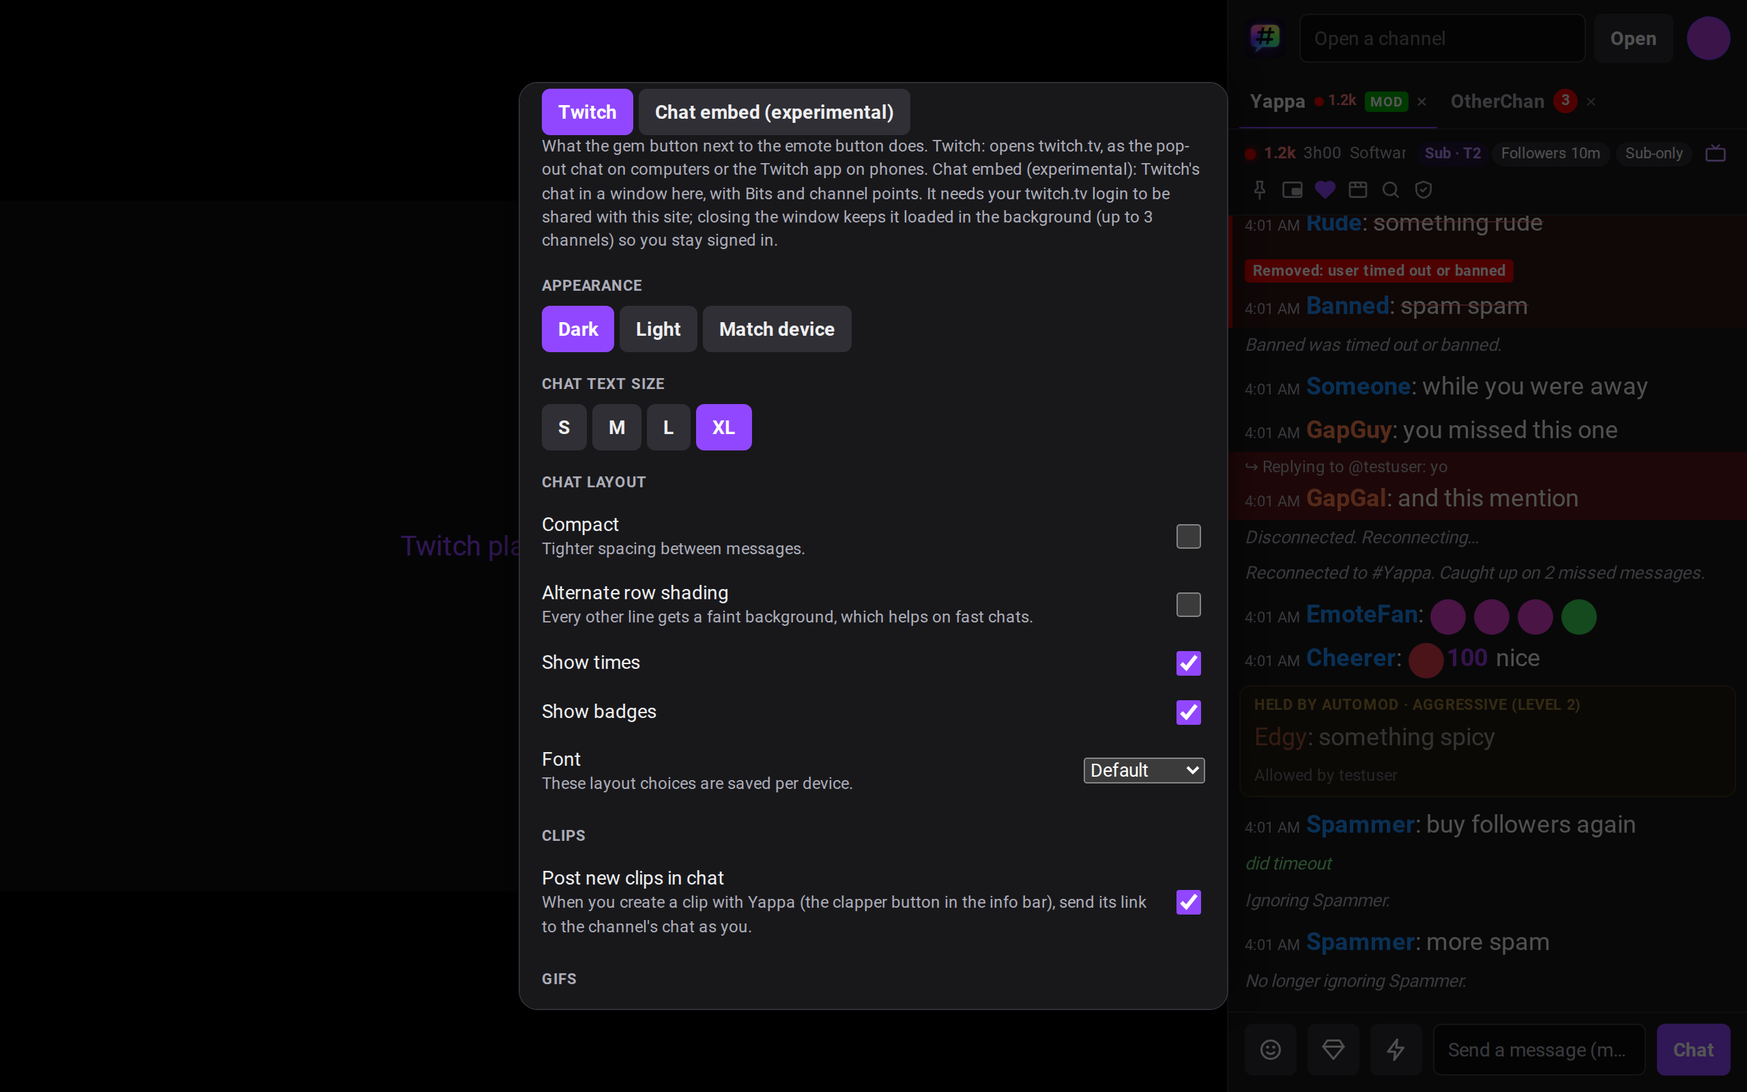
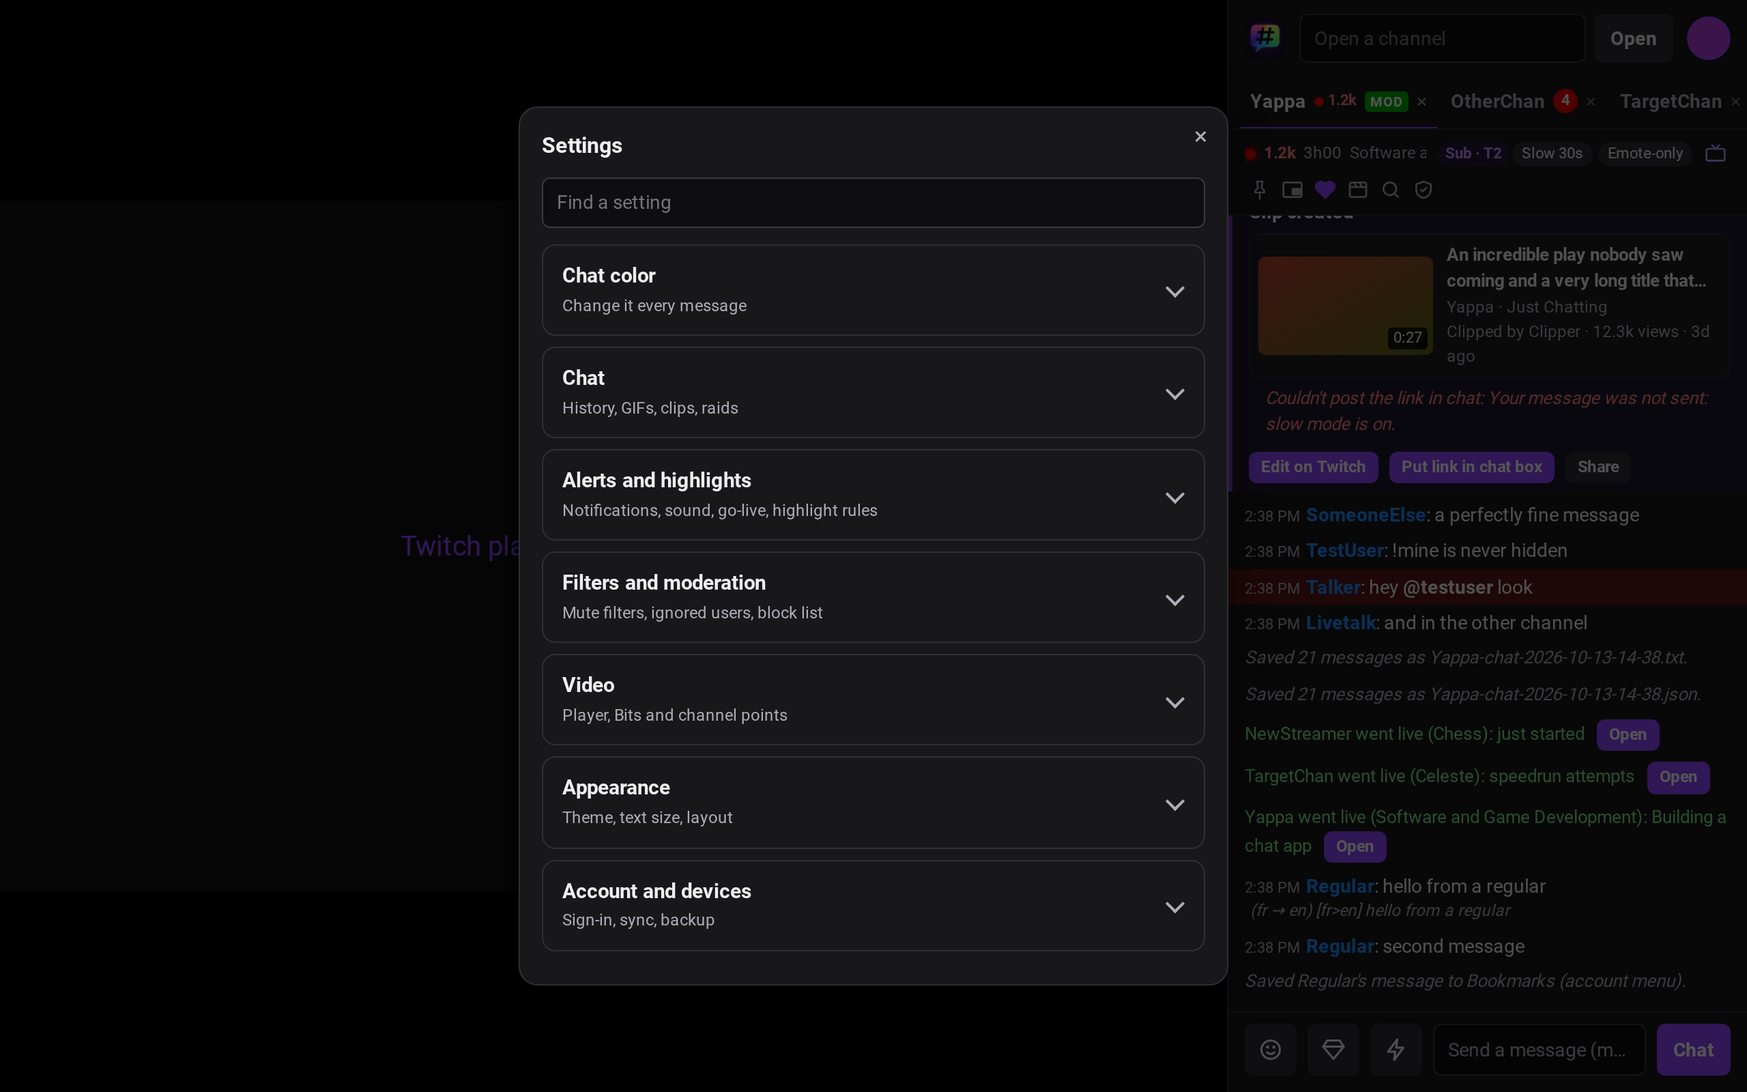
Settings: collapsible sections (one open at a time, remembered) with a search box

diff --git a/src/client/app.js b/src/client/app.js
@@ -4390,7 +4390,9 @@ function backupControls() {
   return box;
 }
 
-function openSettings() {
+let settingsGroup = null; // the section that was open last time, so Settings reopens where you were
+
+function openSettings(wantGroup) {
   const row = (labelText, control, hint) => {
     const r = el("div", "row");
     const l = el("label");
@@ -4550,82 +4552,131 @@ function openSettings() {
   colorLabel.append(el("div", null, "Change my color every message"), el("div", "hint", "A new random color for each message you send. Shows your current color and how many times it has changed."));
   color.append(colorLabel);
 
-  openSheet(
-    el("h2", null, "Settings"),
-    el("h3", null, "Chat color"),
-    color,
-    cyclerEl,
-    el("h3", null, "Account"),
-    account,
-    el("h3", null, "Chat history"),
-    historyRow,
-    el("h3", null, "Raids"),
-    row("Follow raids", checkbox(settings.followRaids, (c) => { settings.followRaids = c.checked; saveSettings(); }),
-      "When the channel you're watching raids, switch to the raided channel after " + RAID_FOLLOW_SECONDS + " seconds (you can stay)."),
-    el("h3", null, "Alerts"),
-    row("Notifications", notify, notifyHint),
-    row("Sound", sound, "A short chime for mentions and highlights when you're looking elsewhere."),
-    el("h3", null, "Highlight rules"),
-    el("div", "hint", "Matching messages are highlighted in orange (and alert you, if on). Phrases match whole words, ignoring case."),
-    rulesList,
-    addRule,
-    el("h3", null, "Mute filters"),
-    el("div", "hint", "Hide messages instead of highlighting them. Your own are never hidden, and changes apply to new messages."),
-    row("Hide known bots", checkbox(!!settings.mute.bots, (c) => { settings.mute.bots = c.checked; saveSettings(); }),
-      "Nightbot, StreamElements, Streamlabs, Moobot, Fossabot, WizeBot, SoundAlerts, Sery_Bot and the Pokémon community game bot."),
-    row("Hide !commands", checkbox(!!settings.mute.commands, (c) => { settings.mute.commands = c.checked; saveSettings(); }),
-      "Messages that start with ! (people triggering bot commands)."),
-    el("div", "hint", "Muted words and phrases match whole words, ignoring case. Wrap a regular expression in slashes, like /^gg+$/, to match a pattern."),
-    muteList,
-    addMute,
-    muteErr,
-    el("h3", null, "Video player"),
-    playerSeg,
-    el("div", "hint", "Native plays the stream directly in a plain video player, which can autoplay (muted) on phones. " +
-      "Tested: Native works in Firefox for Android but not in Chrome (Twitch only lets its own site load its video in browsers that enforce cross-site rules), and Twitch's player is the other way round. " +
-      "This choice is saved per browser. Native also relies on an unofficial Twitch API that can stop working at any time; if it fails, Yappa switches back to Twitch's player for that visit."),
-    el("h3", null, "Bits and channel points"),
-    bitsSeg,
-    el("div", "hint", "What the gem button next to the emote button does. Twitch: opens twitch.tv, as the pop-out chat on computers or the Twitch app on phones. " +
-      "Chat embed (experimental): Twitch's chat in a window here, with Bits and channel points. It needs your twitch.tv login to be shared with this site; closing the window keeps it loaded in the background (up to 3 channels) so you stay signed in." + chatEmbedTip(navigator.userAgent)),
-    el("h3", null, "Appearance"),
-    themeSeg,
-    el("h3", null, "Chat text size"),
-    seg,
-    el("h3", null, "Chat layout"),
-    row("Compact", checkbox(!!settings.compact, (c) => { settings.compact = c.checked; saveSettings(); }), "Tighter spacing between messages."),
-    row("Alternate row shading", checkbox(!!settings.zebra, (c) => { settings.zebra = c.checked; saveSettings(); }), "Every other line gets a faint background, which helps on fast chats."),
-    row("Show times", checkbox(settings.showTime !== false, (c) => { settings.showTime = c.checked; saveSettings(); })),
-    row("Show badges", checkbox(settings.showBadges !== false, (c) => { settings.showBadges = c.checked; saveSettings(); })),
-    row("Font", dropdown([["default", "Default"], ["mono", "Monospace"], ["serif", "Serif"]], settings.chatFont || "default", (v) => { settings.chatFont = v; saveSettings(); }), "These layout choices are saved per device."),
-    el("h3", null, "Clips"),
-    row("Post new clips in chat", checkbox(settings.postClips !== false, (c) => { settings.postClips = c.checked; saveSettings(); }),
-      "When you create a clip with Yappa (the clapper button in the info bar), send its link to the channel's chat as you."),
-    el("h3", null, "GIFs"),
-    row("Show GIFs", checkbox(settings.gifs !== false, (c) => { settings.gifs = c.checked; saveSettings(); }),
-      "Tier 2 and 3 subscribers can send GIFs. They're big and animated, so turn this off to get a link instead (applies to new messages)."),
-    el("h3", null, "Moderation and alerts"),
-    row("Show moderator actions in chat", checkbox(!!settings.modLog, (c) => { settings.modLog = c.checked; saveSettings(); }),
-      "In channels you moderate, add a line when another moderator bans, times out, deletes, or changes a chat mode. Takes effect for channels you open next."),
-    row("Tell me when followed channels go live", checkbox(!!settings.liveAlerts, (c) => { settings.liveAlerts = c.checked; saveSettings(); window.toolsLiveSettingChanged?.(); }),
-      "A notification and a line in chat while Yappa is open (it can't notify when the app is closed). Allow notifications when asked."),
-    row("Note stream title and category changes", checkbox(settings.streamChanges !== false, (c) => { settings.streamChanges = c.checked; saveSettings(); }),
-      "Add a line to a channel's chat when its title or category changes."),
-    row("Use my Twitch block list", checkbox(settings.syncBlocks !== false, (c) => { settings.syncBlocks = c.checked; saveSettings(); window.toolsReloadBlocks?.(); }),
-      "Hide messages from people you've blocked on Twitch, as Twitch's own chat does."),
-    el("h3", null, "Devices"),
-    row("Sync across my devices", checkbox(settings.sync !== false, (c) => {
+  // ---- grouped into collapsible sections, with a search box, so the page isn't one long scroll ----
+  const item = (title, ...nodes) => {
+    const d = el("div", "set-item");
+    if (title) d.appendChild(el("h3", null, title));
+    d.append(...nodes);
+    return d;
+  };
+  const groups = [];
+  const group = (id, title, summary, items) => {
+    const d = el("details", "set-group");
+    d.dataset.group = id;
+    const sum = el("summary");
+    sum.append(el("span", "sg-title", title), el("span", "sg-sum", summary));
+    d.append(sum, ...items);
+    // Our own handling of the tap (not the toggle event, which also fires for the search opening sections).
+    sum.addEventListener("click", (e) => {
+      e.preventDefault();
+      d.open = !d.open;
+      if (d.open) {
+        settingsGroup = id;
+        for (const g of groups) if (g !== d) g.open = false; // one at a time keeps it short
+        d.scrollIntoView?.({ block: "nearest" });
+      }
+    });
+    groups.push(d);
+    return d;
+  };
+
+  group("color", "Chat color", "Change it every message", [item(null, color, cyclerEl)]);
+  group("chat", "Chat", "History, GIFs, clips, raids", [
+    item("Chat history", historyRow),
+    item("GIFs", row("Show GIFs", checkbox(settings.gifs !== false, (c) => { settings.gifs = c.checked; saveSettings(); }),
+      "Tier 2 and 3 subscribers can send GIFs. They're big and animated, so turn this off to get a link instead (applies to new messages).")),
+    item("Clips", row("Post new clips in chat", checkbox(settings.postClips !== false, (c) => { settings.postClips = c.checked; saveSettings(); }),
+      "When you create a clip with Yappa (the clapper button in the info bar), send its link to the channel's chat as you.")),
+    item("Raids", row("Follow raids", checkbox(settings.followRaids, (c) => { settings.followRaids = c.checked; saveSettings(); }),
+      "When the channel you're watching raids, switch to the raided channel after " + RAID_FOLLOW_SECONDS + " seconds (you can stay).")),
+  ]);
+  group("alerts", "Alerts and highlights", "Notifications, sound, go-live, highlight rules", [
+    item("Alerts",
+      row("Notifications", notify, notifyHint),
+      row("Sound", sound, "A short chime for mentions and highlights when you're looking elsewhere."),
+      row("Tell me when followed channels go live", checkbox(!!settings.liveAlerts, (c) => { settings.liveAlerts = c.checked; saveSettings(); window.toolsLiveSettingChanged?.(); }),
+        "A notification and a line in chat while Yappa is open (it can't notify when the app is closed). Allow notifications when asked."),
+      row("Note stream title and category changes", checkbox(settings.streamChanges !== false, (c) => { settings.streamChanges = c.checked; saveSettings(); }),
+        "Add a line to a channel's chat when its title or category changes.")),
+    item("Highlight rules",
+      el("div", "hint", "Matching messages are highlighted in orange (and alert you, if on). Phrases match whole words, ignoring case."),
+      rulesList, addRule),
+  ]);
+  group("filters", "Filters and moderation", "Mute filters, ignored users, block list", [
+    item("Mute filters",
+      el("div", "hint", "Hide messages instead of highlighting them. Your own are never hidden, and changes apply to new messages."),
+      row("Hide known bots", checkbox(!!settings.mute.bots, (c) => { settings.mute.bots = c.checked; saveSettings(); }),
+        "Nightbot, StreamElements, Streamlabs, Moobot, Fossabot, WizeBot, SoundAlerts, Sery_Bot and the Pokémon community game bot."),
+      row("Hide !commands", checkbox(!!settings.mute.commands, (c) => { settings.mute.commands = c.checked; saveSettings(); }),
+        "Messages that start with ! (people triggering bot commands)."),
+      el("div", "hint", "Muted words and phrases match whole words, ignoring case. Wrap a regular expression in slashes, like /^gg+$/, to match a pattern."),
+      muteList, addMute, muteErr),
+    item("Ignored users", hiddenList),
+    item("Twitch block list", row("Use my Twitch block list", checkbox(settings.syncBlocks !== false, (c) => { settings.syncBlocks = c.checked; saveSettings(); window.toolsReloadBlocks?.(); }),
+      "Hide messages from people you've blocked on Twitch, as Twitch's own chat does.")),
+    item("Moderation", row("Show moderator actions in chat", checkbox(!!settings.modLog, (c) => { settings.modLog = c.checked; saveSettings(); }),
+      "In channels you moderate, add a line when another moderator bans, times out, deletes, or changes a chat mode. Takes effect for channels you open next.")),
+  ]);
+  group("video", "Video", "Player, Bits and channel points", [
+    item("Video player", playerSeg,
+      el("div", "hint", "Native plays the stream directly in a plain video player, which can autoplay (muted) on phones. " +
+        "Tested: Native works in Firefox for Android but not in Chrome (Twitch only lets its own site load its video in browsers that enforce cross-site rules), and Twitch's player is the other way round. " +
+        "This choice is saved per browser. Native also relies on an unofficial Twitch API that can stop working at any time; if it fails, Yappa switches back to Twitch's player for that visit.")),
+    item("Bits and channel points", bitsSeg,
+      el("div", "hint", "What the gem button next to the emote button does. Twitch: opens twitch.tv, as the pop-out chat on computers or the Twitch app on phones. " +
+        "Chat embed (experimental): Twitch's chat in a window here, with Bits and channel points. It needs your twitch.tv login to be shared with this site; closing the window keeps it loaded in the background (up to 3 channels) so you stay signed in." + chatEmbedTip(navigator.userAgent))),
+  ]);
+  group("look", "Appearance", "Theme, text size, layout", [
+    item("Theme", themeSeg),
+    item("Chat text size", seg),
+    item("Chat layout",
+      row("Compact", checkbox(!!settings.compact, (c) => { settings.compact = c.checked; saveSettings(); }), "Tighter spacing between messages."),
+      row("Alternate row shading", checkbox(!!settings.zebra, (c) => { settings.zebra = c.checked; saveSettings(); }), "Every other line gets a faint background, which helps on fast chats."),
+      row("Show times", checkbox(settings.showTime !== false, (c) => { settings.showTime = c.checked; saveSettings(); })),
+      row("Show badges", checkbox(settings.showBadges !== false, (c) => { settings.showBadges = c.checked; saveSettings(); })),
+      row("Font", dropdown([["default", "Default"], ["mono", "Monospace"], ["serif", "Serif"]], settings.chatFont || "default", (v) => { settings.chatFont = v; saveSettings(); }), "These layout choices are saved per device.")),
+  ]);
+  group("account", "Account and devices", "Sign-in, sync, backup", [
+    item("Account", account),
+    item("Devices", row("Sync across my devices", checkbox(settings.sync !== false, (c) => {
       settings.sync = c.checked;
       saveSettings();
       if (c.checked) syncPull(false);
-    }), "Keep settings, open tabs and the pinned stream the same on every device you sign in on (the newest change wins). Video player, theme, text size and notifications stay per device."),
-    el("h3", null, "Backup"),
-    row("Settings file", backupControls(), "Save everything (settings, tabs, notes, bookmarks, quick messages) to a file, or restore from one. Restoring replaces what's here."),
-    el("h3", null, "Ignored users"),
-    hiddenList,
-    el("h3", null, "Startup timings"),
-    el("div", "hint", startupSummary()),
-  );
+    }), "Keep settings, open tabs and the pinned stream the same on every device you sign in on (the newest change wins). Video player, theme, text size and notifications stay per device.")),
+    item("Backup", row("Settings file", backupControls(), "Save everything (settings, tabs, notes, bookmarks, quick messages) to a file, or restore from one. Restoring replaces what's here.")),
+    item("Startup timings", el("div", "hint", startupSummary())),
+  ]);
+
+  // Search: show only the matching settings (opening their sections); empty shows the sections again.
+  const find = document.createElement("input");
+  find.type = "search";
+  find.className = "set-find";
+  find.placeholder = "Find a setting";
+  find.setAttribute("aria-label", "Find a setting");
+  find.autocomplete = "off";
+  const none = el("div", "hint set-none", "No setting matches that.");
+  none.hidden = true;
+  find.addEventListener("input", () => {
+    const q = find.value.trim().toLowerCase();
+    let any = false;
+    for (const g of groups) {
+      const items = [...g.querySelectorAll(":scope > .set-item")];
+      let hit = 0;
+      for (const it of items) {
+        const match = !q || it.textContent.toLowerCase().includes(q);
+        it.hidden = !match;
+        if (match) hit++;
+      }
+      g.hidden = !hit;
+      if (q) g.open = hit > 0; else g.open = g.dataset.group === settingsGroup;
+      if (hit) any = true;
+    }
+    none.hidden = any;
+  });
+
+  openSheet(el("h2", null, "Settings"), find, ...groups, none);
+  const first = groups.find((g) => g.dataset.group === (wantGroup || settingsGroup));
+  if (first) first.open = true;
 }
 
 // ---------- mobile viewport ----------

diff --git a/src/client/app.css b/src/client/app.css
@@ -506,3 +506,21 @@ button.small, a.btn.small { padding: 3px 9px; font-size: 12px; }
   .v2-frame { flex: 1; min-height: 0; display: grid; place-items: center; }
   .v2-frame iframe { width: min(100%, calc(var(--app-height, 100dvh) * 16 / 9)); aspect-ratio: 16 / 9; height: auto; border: 0; }
 }
+
+/* Settings: collapsible sections with a search box */
+.set-find { width: 100%; margin: 0 0 12px; }
+.set-group { border: 1px solid var(--line); border-radius: 10px; margin-bottom: 8px; overflow: hidden; }
+.set-group[hidden], .set-item[hidden] { display: none; }
+.set-group > summary { list-style: none; cursor: pointer; padding: 12px 40px 12px 14px; display: flex; flex-direction: column; gap: 2px; position: relative; user-select: none; }
+.set-group > summary::-webkit-details-marker { display: none; }
+.set-group > summary::after { content: ""; position: absolute; right: 16px; top: 50%; width: 8px; height: 8px; margin-top: -6px; border-right: 2px solid var(--muted); border-bottom: 2px solid var(--muted); transform: rotate(45deg); transition: transform .15s; }
+.set-group[open] > summary::after { transform: rotate(-135deg); margin-top: -2px; }
+.set-group[open] > summary { border-bottom: 1px solid var(--line); }
+.set-group > summary:hover { background: var(--hover); }
+.sg-title { font-weight: 700; font-size: 15px; }
+.sg-sum { font-size: 12px; color: var(--muted); }
+.set-group > .set-item { padding: 0 14px; }
+.set-group > .set-item:last-child { padding-bottom: 10px; }
+.set-item > h3:first-child { margin-top: 12px; }
+.set-none { padding: 8px 2px; }
+@media (prefers-reduced-motion: reduce) { .set-group > summary::after { transition: none; } }

diff --git a/CLAUDE.md b/CLAUDE.md
@@ -59,6 +59,7 @@ Tokens never reach the browser.
 - **Personal settings** all live in `settings` (so they sync, unless listed in `DEVICE_SETTINGS`): `channels[login]` (`notify`/`sound`/`live` = on|off|absent, `muteWords`; read through `chanSetting`, edited with `setChan` in tools.js), `notes[userId]` (label, color, note; `userTag`/`refreshUserTags` render the label after names; capped at 300), `snippets`, `favEmotes`, `bookmarks`. Chat layout options (`compact`, `zebra`, `showTime`, `showBadges`, `chatFont`) are per device and become classes on `.app` in `applySettings`. Backup/restore (`backupFile`/`parseBackup`) accepts only keys that exist in `DEFAULT_SETTINGS` with the same type; add new settings there or they won't restore. Reload goes through `nav.reload` (test seam).
 - **Tab menu and second stream** (tools.js): tab order is the `tabs` Map's order, changed only through `moveTab`. "Watch alongside" is a plain `player.twitch.tv` iframe in `#video2`, only at 1000px+ (the `dual` class adds a grid column); it is separate from the main player so `renderVideoNow` never touches it (`toolsVideoChanged` re-evaluates it). Never overlay it on the main player.
 - **Startup order (keep it fast):** the first `/api/status?sync=1` carries the synced settings (`adoptSync`), then `restoreTabs`; on the socket's welcome `subscribeAll` joins the open tab first and the rest three at a time (a join is ~10 Twitch calls). A join waits only for badges, cheermotes and 7TV/BTTV/FFZ (`loadTabExtras`); the account's Twitch emotes are a long paged list, so `ensureTwitchEmotes` loads them for the open tab only (others on first activation) and the Durable Object keeps each channel's list for 5 minutes. A background tab's first page of history waits until it's first opened (`pendingHistory`; reconnect gaps still fill at once). The Durable Object also caches channel lookups, shares in-flight followed-channel and moderated-channel fetches, and `chatSubscribe` requests everything for a channel at once. The open channel's newest history is requested as soon as the script runs (`prefetchHistory`, from the URL hash or `lastChannel`), in parallel with sign-in and joining; the join then fills only the gap since (`backfill` with `since`). `GET /` doesn't touch the Durable Object; the first `/api/status?sync=1` of a page load is what forces the Durable Object onto the current deploy (`currentStub`). Settings → "Startup timings" shows where a real load spent its time (`startupMark`); look there before guessing. Never make chat or history wait on something slow again.
+- **Settings** (`openSettings`) is a list of collapsible sections (`group(id, title, summary, items)`), one open at a time (remembered in `settingsGroup`), each holding `item(title, ...rows)`s; the search box shows the items whose text matches. Put a new setting in the right `group` as an `item` (give it a title and a hint so it can be found). In tests `openSettingsUI()` expands every section; pass `{ expand: false }` to test the sections themselves.
 - **Layout runs on phones first.** With the video on, the layout puts it beside the chat (video left, chat column right) when the window is 1000px+ wide *or* a phone is on its side (`orientation: landscape`, height ≤ 520px, width ≥ 560px; the chat column shrinks to 280–380px); upright phones stack video over chat. The document never scrolls (only message lists do), and the app is sized to `visualViewport` via `--app-height`. Percent heights inside the footer resolve against the footer; use `--app-height`.
 - **Twitch API limits:**
   - Hex chat colors need Turbo/Prime, and chat color is account-wide.

diff --git a/README.md b/README.md
@@ -93,7 +93,7 @@ WebSocket and Helix API, and it runs as a web app you can install on your phone 
   size and notification choices stay per device).
 - Per-channel overrides for notifications, sound, go-live alerts and muted words.
 - Private notes and colored labels on people; quick messages for things you type often; favorite emotes.
-- Light and dark themes, compact or shaded rows, hidden times or badges, monospace or serif font.
+- Light and dark themes, compact or shaded rows, hidden times or badges, monospace or serif font. Settings is a short list of collapsible sections with a search box.
 - Tab menu (move, live-first, pin, close others), desktop shortcuts (`?` lists them), save a chat as text or
   JSON, and a settings backup you can restore from a file.
 - Optional **chat color cycling**: a new random hex color every time you send a message (needs Twitch Turbo or
@@ -501,11 +501,12 @@ Each state is shown on a phone (390×760 at 2× pixel density) and on a desktop-
 <details>
 <summary><b>Settings and color cycling</b> (3 screens)</summary>
 
-**Settings**
+**Settings: collapsible sections with a search box**
 
 | Phone | Desktop |
 |---|---|
-| <img src="docs/screenshots/settings-mobile.png" width="240" alt="Settings (phone)"> | <img src="docs/screenshots/settings-desktop.png" width="520" alt="Settings (desktop)"> |
+| <img src="docs/screenshots/settings-mobile.png" width="240" alt="Settings sections (phone)"> | <img src="docs/screenshots/settings-desktop.png" width="520" alt="Settings sections (desktop)"> |
+| <img src="docs/screenshots/settings-section-mobile.png" width="240" alt="One Settings section open (phone)"> | <img src="docs/screenshots/settings-section-desktop.png" width="520" alt="One Settings section open (desktop)"> |
 
 **Light theme**
 
